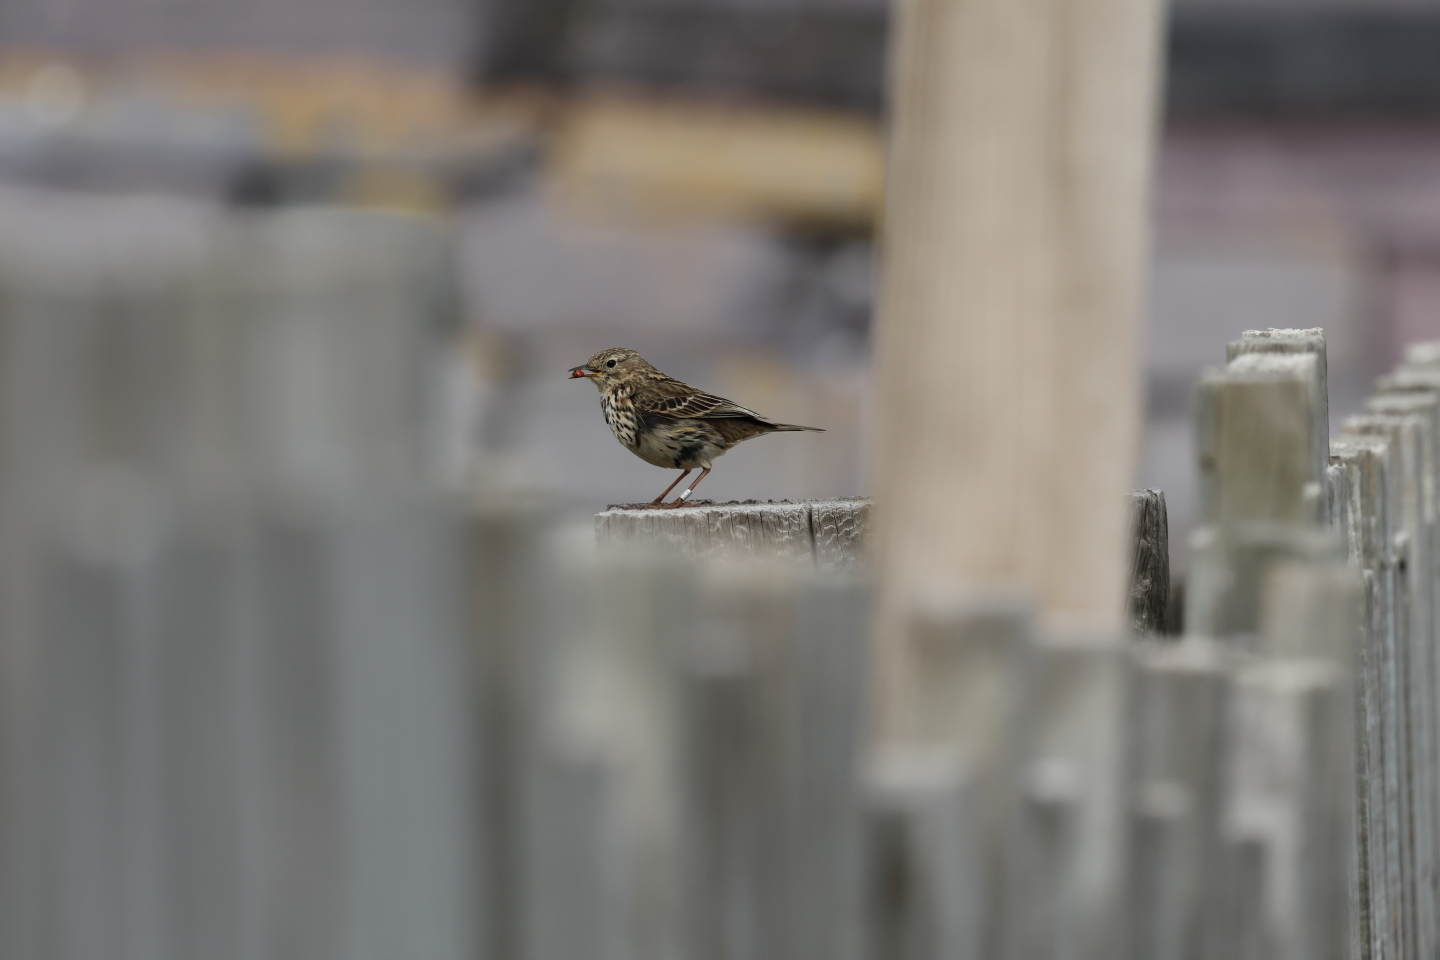
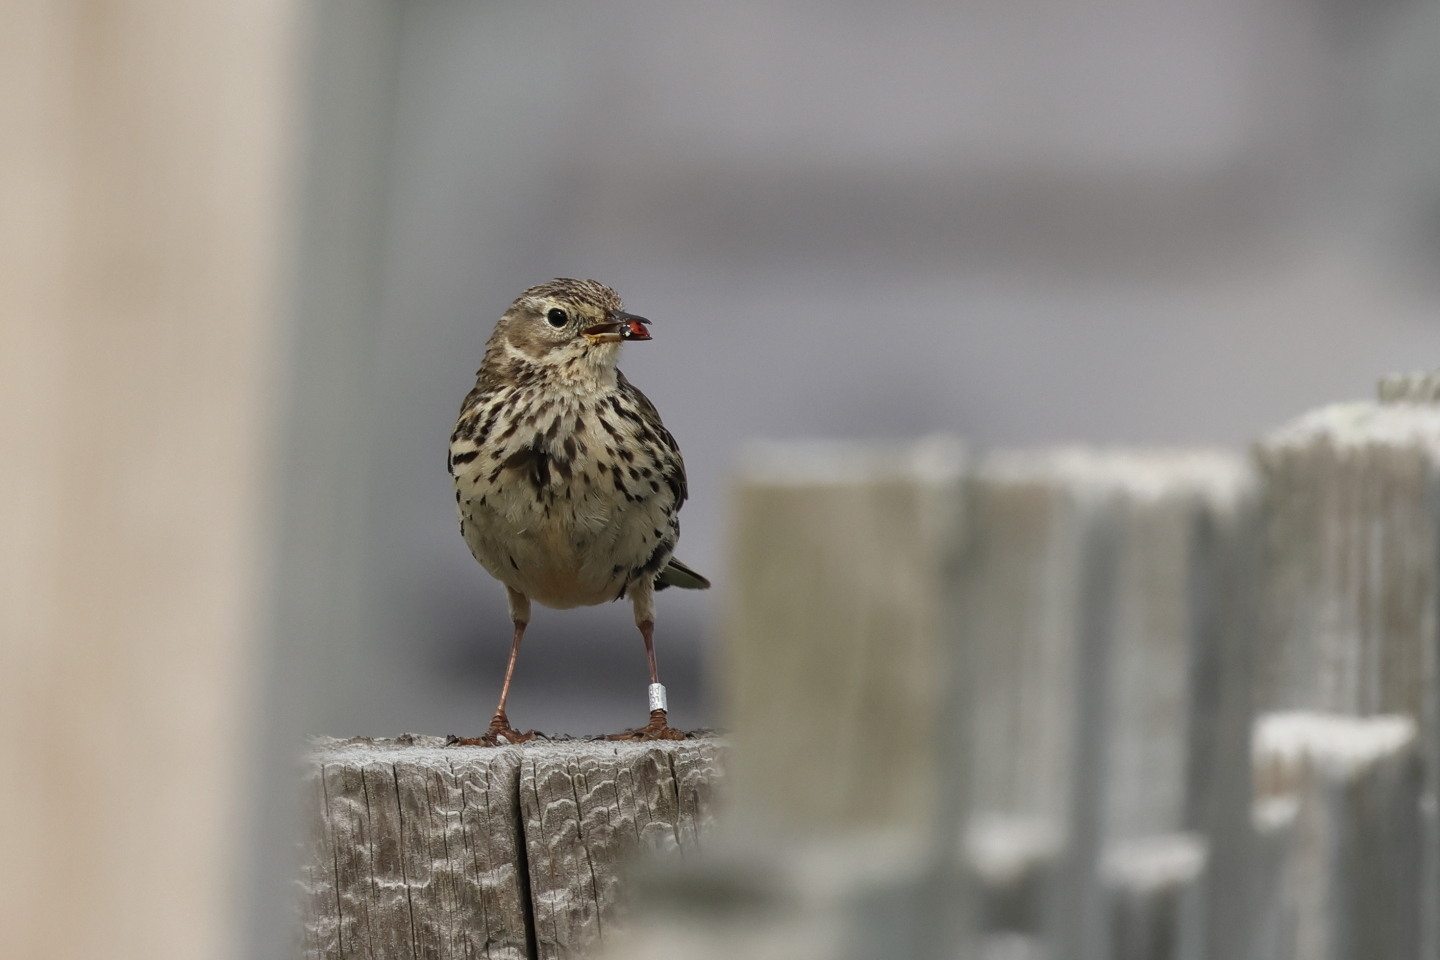
Data updated and meadow pipit images sorted

diff --git a/src/api/birddata.tsx b/src/api/birddata.tsx
@@ -171,8 +171,8 @@ const birddata = [
         name: `Cormorant`,
         summary: `One of my favourite birds! I feel sorry for it as it often just flaps its wings to dry them off due to them not having as much oil to stop the water clogging the feathers. And in parts of Asia, they are used to catch fish with a rope around their neck, becoming unable to swallow the fish and spit it back up on the boat. Poor birds!`,
         images: ["1", "2", "3"],
-        date: `11/04/2026`,
-        location: `Wigan`,
+        date: `02/05/2026`,
+        location: `Tipton`,
     }, {
         name: `Great Crested Grebe`,
         summary: `Ah, the Bloodborne bird (cos of the hair reminding me of the Hunter's Hat). I love how they look. Once saw one pull a worm out of it's cloaca in Tipton and it never occurred to me that birds could get worms.`,
@@ -261,7 +261,7 @@ const birddata = [
         name: `Linnet`,
         summary: `Often I see a bird, dunno what it is, later when I get back and look at my photos I think "Oh, it's just another linnet". But they are quite nice birds. They look like they are covered in blood during breeding season as the front of the chest and top of their head becomes bright red.`,
         images: ["1", "2", "3", "4", "5"],
-        date: `17/01/2026`,
+        date: `06/04/2026`,
         location: `Hilbre Island`,
     }, {
         name: `Long-tailed Tit`,